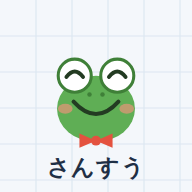
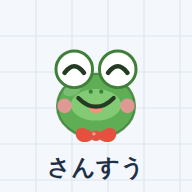
ケロとコロの絵をもっとかわいくする
frogSVG() を描きなおし、2つのアプリとアイコンに反映した。

- 目を大きくして白目を近づけ、黒目にはハイライトを2つ入れて うるうる させる
- 口のまわりを明るい色にして、笑うと したが のぞくようにした
- まちがいのときは「お」の形の口にして、こまり顔ではなく びっくり顔に
- ほっぺを はっきりした ピンクに（緑に重なって茶色く見えていたのを直した）
- リボンを三角から丸みのある形にして、むすび目に つやを入れた
- 輪郭線を足して、白い紙でも暗い画面でも形がはっきり見えるようにした

アイコン（さんすう・えいご 両方の SVG と PNG）も同じ絵に差し替え。
tools/icon-en.mjs に 3次曲線・回転・透明度を足して、SVG と PNG が
同じ形になるようにした。

Claude-Session: https://claude.ai/code/session_01QHNdPq1hQas3byVnCb1oKx

diff --git a/english.html b/english.html
@@ -1247,29 +1247,39 @@
     const kero = who === "kero";
     const skin = kero ? "#5fae55" : "#a3c53f";
     const edge = kero ? "#3f8038" : "#7d9c2b";
+    const face = kero ? "#86cd77" : "#c9e27a";     // くちの まわりの あかるい いろ
     const ribbon = kero ? "#e4523f" : "#2b6ca3";
     const dark = "#233b22";
+    const cheek = "#ff93a5";
+    const tongue = "#ff8f7e";
     const eyes = mood === "happy"
-      ? `<path d="M25 30 Q32 21 39 30" fill="none" stroke="${dark}" stroke-width="3.4" stroke-linecap="round"/>
-         <path d="M61 30 Q68 21 75 30" fill="none" stroke="${dark}" stroke-width="3.4" stroke-linecap="round"/>`
-      : `<circle cx="32" cy="30" r="6.4" fill="${dark}"/><circle cx="68" cy="30" r="6.4" fill="${dark}"/>
-         <circle cx="34.4" cy="27.4" r="2.1" fill="#fff"/><circle cx="70.4" cy="27.4" r="2.1" fill="#fff"/>`;
+      ? `<path d="M22.5 29 Q31 17.5 39.5 29" fill="none" stroke="${dark}" stroke-width="4" stroke-linecap="round"/>
+         <path d="M60.5 29 Q69 17.5 77.5 29" fill="none" stroke="${dark}" stroke-width="4" stroke-linecap="round"/>`
+      : `<circle cx="32.6" cy="28.4" r="7.8" fill="${dark}"/><circle cx="67.4" cy="28.4" r="7.8" fill="${dark}"/>
+         <circle cx="35.8" cy="24.8" r="3" fill="#fff"/><circle cx="70.6" cy="24.8" r="3" fill="#fff"/>
+         <circle cx="30.2" cy="32.2" r="1.6" fill="#fff" opacity=".85"/><circle cx="65" cy="32.2" r="1.6" fill="#fff" opacity=".85"/>`;
     const mouth = mood === "happy"
-      ? `<path d="M31 51 Q50 72 69 51" fill="none" stroke="${dark}" stroke-width="3.4" stroke-linecap="round"/>`
-      : `<path d="M36 56 Q50 66 64 56" fill="none" stroke="${dark}" stroke-width="3.4" stroke-linecap="round"/>`;
+      ? `<ellipse cx="50" cy="60.5" rx="5.6" ry="3.8" fill="${tongue}"/>
+         <path d="M34.5 51 Q50 66.5 65.5 51" fill="none" stroke="${dark}" stroke-width="3.6" stroke-linecap="round"/>`
+      : `<ellipse cx="50" cy="57" rx="6.4" ry="5.6" fill="${dark}"/>
+         <ellipse cx="50" cy="59.8" rx="3.4" ry="2.2" fill="${tongue}"/>`;
     return `<svg class="${cls}" viewBox="0 0 100 96" width="${size}" height="${size * 0.96}" role="img" aria-label="${kero ? "ケロちゃん" : "コロちゃん"}">
-      <ellipse cx="50" cy="57" rx="33" ry="28" fill="${skin}"/>
-      <circle cx="32" cy="29" r="14" fill="#fff" stroke="${edge}" stroke-width="2.6"/>
-      <circle cx="68" cy="29" r="14" fill="#fff" stroke="${edge}" stroke-width="2.6"/>
+      <ellipse cx="50" cy="58" rx="34" ry="28" fill="${skin}"/>
+      <ellipse cx="50" cy="57" rx="22" ry="13.8" fill="${face}" opacity=".9"/>
+      <ellipse cx="50" cy="58" rx="34" ry="28" fill="none" stroke="${edge}" stroke-width="2" opacity=".85"/>
+      <ellipse cx="29" cy="44" rx="8" ry="5" fill="#fff" opacity=".18" transform="rotate(-22 29 44)"/>
+      <circle cx="31" cy="26" r="16" fill="#fff" stroke="${edge}" stroke-width="2.6"/>
+      <circle cx="69" cy="26" r="16" fill="#fff" stroke="${edge}" stroke-width="2.6"/>
       ${eyes}
-      <circle cx="44.5" cy="45" r="1.9" fill="${edge}"/>
-      <circle cx="55.5" cy="45" r="1.9" fill="${edge}"/>
+      <circle cx="45.4" cy="45.5" r="1.8" fill="${edge}"/>
+      <circle cx="54.6" cy="45.5" r="1.8" fill="${edge}"/>
       ${mouth}
-      <ellipse cx="24" cy="57" rx="6.2" ry="4.2" fill="#ff8f7e" opacity=".6"/>
-      <ellipse cx="76" cy="57" rx="6.2" ry="4.2" fill="#ff8f7e" opacity=".6"/>
-      <path d="M50 84 L36 78 L36 90 Z" fill="${ribbon}"/>
-      <path d="M50 84 L64 78 L64 90 Z" fill="${ribbon}"/>
-      <circle cx="50" cy="84" r="4.2" fill="${ribbon}"/>
+      <circle cx="22.5" cy="58" r="6.4" fill="${cheek}" opacity=".8"/>
+      <circle cx="77.5" cy="58" r="6.4" fill="${cheek}" opacity=".8"/>
+      <path d="M50 84 C43 76.5 35 75.5 33 79.5 C31 83.5 33.5 89 38.5 89.5 C43.5 90 47.5 87.5 50 84 Z" fill="${ribbon}"/>
+      <path d="M50 84 C57 76.5 65 75.5 67 79.5 C69 83.5 66.5 89 61.5 89.5 C56.5 90 52.5 87.5 50 84 Z" fill="${ribbon}"/>
+      <circle cx="50" cy="84" r="4.6" fill="${ribbon}"/>
+      <circle cx="48.2" cy="82.4" r="1.5" fill="#fff" opacity=".45"/>
     </svg>`;
   }
   const frogPairHTML = (size = 58) => `

diff --git a/index.html b/index.html
@@ -1025,29 +1025,39 @@
     const kero = who === "kero";
     const skin = kero ? "#5fae55" : "#a3c53f";
     const edge = kero ? "#3f8038" : "#7d9c2b";
+    const face = kero ? "#86cd77" : "#c9e27a";     // くちの まわりの あかるい いろ
     const ribbon = kero ? "#e4523f" : "#2b6ca3";
     const dark = "#233b22";
+    const cheek = "#ff93a5";
+    const tongue = "#ff8f7e";
     const eyes = mood === "happy"
-      ? `<path d="M25 30 Q32 21 39 30" fill="none" stroke="${dark}" stroke-width="3.4" stroke-linecap="round"/>
-         <path d="M61 30 Q68 21 75 30" fill="none" stroke="${dark}" stroke-width="3.4" stroke-linecap="round"/>`
-      : `<circle cx="32" cy="30" r="6.4" fill="${dark}"/><circle cx="68" cy="30" r="6.4" fill="${dark}"/>
-         <circle cx="34.4" cy="27.4" r="2.1" fill="#fff"/><circle cx="70.4" cy="27.4" r="2.1" fill="#fff"/>`;
+      ? `<path d="M22.5 29 Q31 17.5 39.5 29" fill="none" stroke="${dark}" stroke-width="4" stroke-linecap="round"/>
+         <path d="M60.5 29 Q69 17.5 77.5 29" fill="none" stroke="${dark}" stroke-width="4" stroke-linecap="round"/>`
+      : `<circle cx="32.6" cy="28.4" r="7.8" fill="${dark}"/><circle cx="67.4" cy="28.4" r="7.8" fill="${dark}"/>
+         <circle cx="35.8" cy="24.8" r="3" fill="#fff"/><circle cx="70.6" cy="24.8" r="3" fill="#fff"/>
+         <circle cx="30.2" cy="32.2" r="1.6" fill="#fff" opacity=".85"/><circle cx="65" cy="32.2" r="1.6" fill="#fff" opacity=".85"/>`;
     const mouth = mood === "happy"
-      ? `<path d="M31 51 Q50 72 69 51" fill="none" stroke="${dark}" stroke-width="3.4" stroke-linecap="round"/>`
-      : `<path d="M36 56 Q50 66 64 56" fill="none" stroke="${dark}" stroke-width="3.4" stroke-linecap="round"/>`;
+      ? `<ellipse cx="50" cy="60.5" rx="5.6" ry="3.8" fill="${tongue}"/>
+         <path d="M34.5 51 Q50 66.5 65.5 51" fill="none" stroke="${dark}" stroke-width="3.6" stroke-linecap="round"/>`
+      : `<ellipse cx="50" cy="57" rx="6.4" ry="5.6" fill="${dark}"/>
+         <ellipse cx="50" cy="59.8" rx="3.4" ry="2.2" fill="${tongue}"/>`;
     return `<svg class="${cls}" viewBox="0 0 100 96" width="${size}" height="${size * 0.96}" role="img" aria-label="${kero ? "ケロちゃん" : "コロちゃん"}">
-      <ellipse cx="50" cy="57" rx="33" ry="28" fill="${skin}"/>
-      <circle cx="32" cy="29" r="14" fill="#fff" stroke="${edge}" stroke-width="2.6"/>
-      <circle cx="68" cy="29" r="14" fill="#fff" stroke="${edge}" stroke-width="2.6"/>
+      <ellipse cx="50" cy="58" rx="34" ry="28" fill="${skin}"/>
+      <ellipse cx="50" cy="57" rx="22" ry="13.8" fill="${face}" opacity=".9"/>
+      <ellipse cx="50" cy="58" rx="34" ry="28" fill="none" stroke="${edge}" stroke-width="2" opacity=".85"/>
+      <ellipse cx="29" cy="44" rx="8" ry="5" fill="#fff" opacity=".18" transform="rotate(-22 29 44)"/>
+      <circle cx="31" cy="26" r="16" fill="#fff" stroke="${edge}" stroke-width="2.6"/>
+      <circle cx="69" cy="26" r="16" fill="#fff" stroke="${edge}" stroke-width="2.6"/>
       ${eyes}
-      <circle cx="44.5" cy="45" r="1.9" fill="${edge}"/>
-      <circle cx="55.5" cy="45" r="1.9" fill="${edge}"/>
+      <circle cx="45.4" cy="45.5" r="1.8" fill="${edge}"/>
+      <circle cx="54.6" cy="45.5" r="1.8" fill="${edge}"/>
       ${mouth}
-      <ellipse cx="24" cy="57" rx="6.2" ry="4.2" fill="#ff8f7e" opacity=".6"/>
-      <ellipse cx="76" cy="57" rx="6.2" ry="4.2" fill="#ff8f7e" opacity=".6"/>
-      <path d="M50 84 L36 78 L36 90 Z" fill="${ribbon}"/>
-      <path d="M50 84 L64 78 L64 90 Z" fill="${ribbon}"/>
-      <circle cx="50" cy="84" r="4.2" fill="${ribbon}"/>
+      <circle cx="22.5" cy="58" r="6.4" fill="${cheek}" opacity=".8"/>
+      <circle cx="77.5" cy="58" r="6.4" fill="${cheek}" opacity=".8"/>
+      <path d="M50 84 C43 76.5 35 75.5 33 79.5 C31 83.5 33.5 89 38.5 89.5 C43.5 90 47.5 87.5 50 84 Z" fill="${ribbon}"/>
+      <path d="M50 84 C57 76.5 65 75.5 67 79.5 C69 83.5 66.5 89 61.5 89.5 C56.5 90 52.5 87.5 50 84 Z" fill="${ribbon}"/>
+      <circle cx="50" cy="84" r="4.6" fill="${ribbon}"/>
+      <circle cx="48.2" cy="82.4" r="1.5" fill="#fff" opacity=".45"/>
     </svg>`;
   }
   const frogPairHTML = (size = 58) => `
